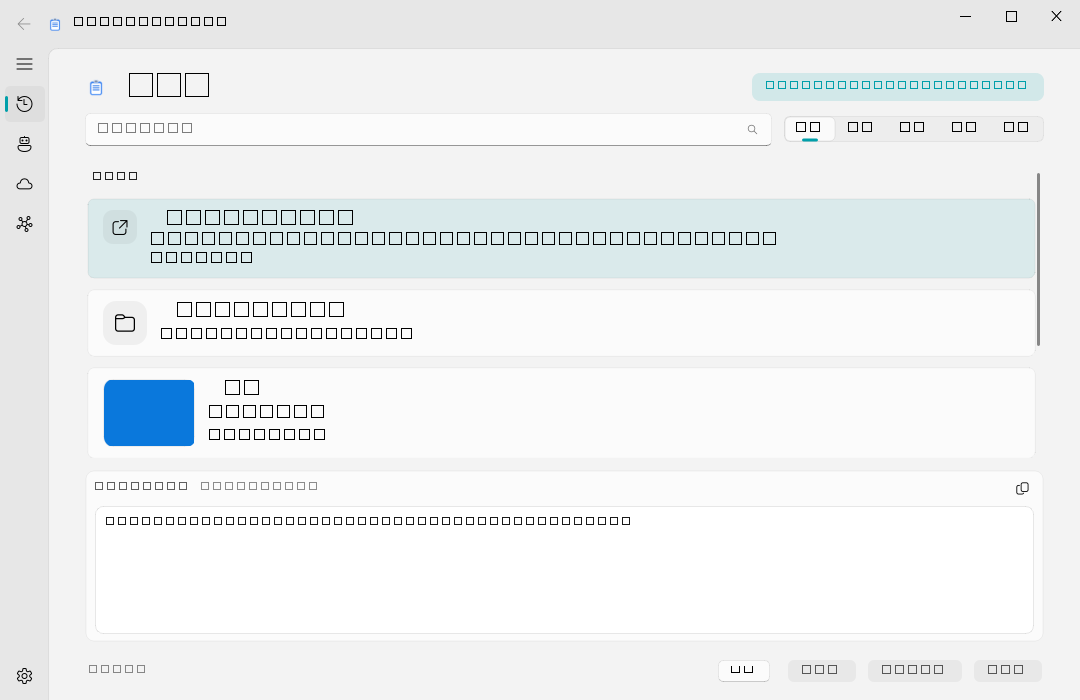
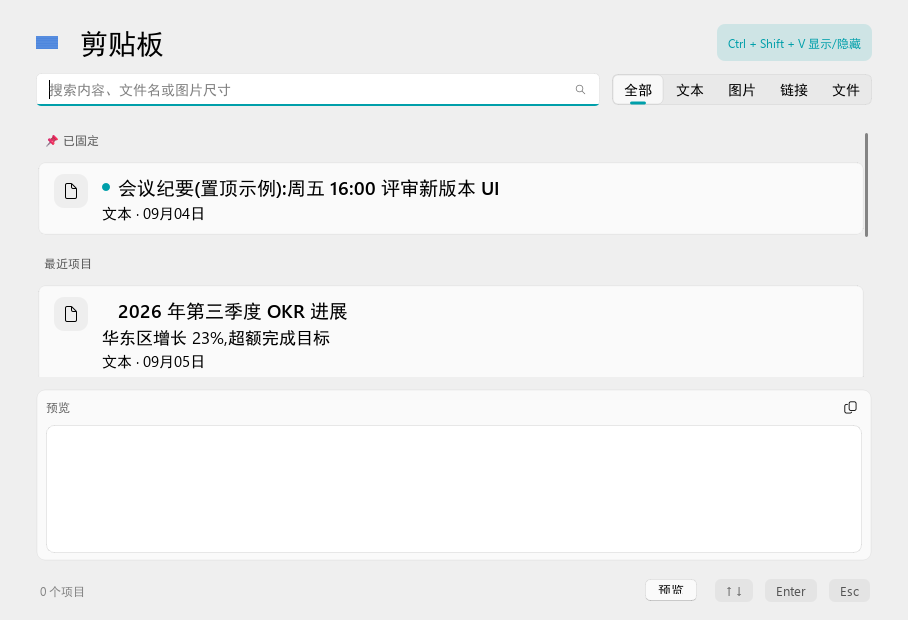
docs(readme): update features, shortcuts and file inventory

diff --git a/README.md b/README.md
@@ -13,10 +13,10 @@
 | 🖥 系统托盘常驻 | 后台运行,关闭按钮只隐藏,真正退出走托盘菜单 |
 | 🌗 深浅色主题 | qfluentwidgets 原生主题,默认跟随系统,设置页/config 可切换 |
 | 🏷 类型图标 | 卡片以图标 + 元信息行区分类型(文本/链接/文件/图片),悬停显示快捷操作 |
-| ⌨ 全局热键 | `Ctrl + Shift + V` 显示 / 隐藏 主窗口 |
+| ⌨ 全局热键 | `Ctrl + Shift + V` 显示 / 隐藏 主窗口;设置页可直接**按键录制**新热键,被占用即时提示并保留原组合 |
 | 📝 文本 + 图片 | 自动捕获复制的文字和截图,换行/中文完整保留 |
 | 📁 文件复制 | 资源管理器里复制的文件/文件夹也进历史,可粘回 |
-| 🔒 敏感隔离 | 密码/银行卡/身份证/API 密钥等自动识别,存入私密区不进普通历史 |
+| 🔒 敏感隔离 | 密码/银行卡/身份证/API 密钥等自动识别,存入私密区不进普通历史;私密区列表**默认遮罩**,点「显示明文」解锁、30 秒后或切走页面自动遮回;DPAPI 不可用时界面如实标注「未加密」而不是谎称已加密 |
 | 🖼 图片缩略图 | 历史卡片直接显示图片预览(后台线程解码,不卡列表) |
 | 📌 图钉画布 | 大画板式置顶画布(参考 BeeRef/PureRef):自由平移缩放,拖动 / 悬停滚轮缩放(光标锚) / 旋转 / 透明度 / 锁定 / 层级 / 框选多选 / 网格·对齐排列 / 内置编辑器标注(原地替换) / 从历史添加 / `Ctrl+Shift+P` 直钉剪贴板;布局与视图位置持久化,已钉图片独立存储,删历史不影响 |
 | 🎨 图片处理 | 裁剪 / 旋转 / 缩放 / 标注(方框、箭头、文字、马赛克)/ 压缩导出 |
@@ -32,10 +32,25 @@
 | 🧩 工作流(网页 AI 模式) | 不接 API 也能用:每步可以是「网页 AI」(提示词自动进剪贴板,可自动打开网页)、「人工确认」(粘贴回答/编辑把关)或「本地 AI」,固定流程逐步推进 |
 | 🔍 即时搜索 | 顶部搜索框输入关键词过滤(可搜"图片"或尺寸) |
 | 📌 置顶 | 常用内容固定在顶部,不被清空 |
-| ⚡ 自动粘贴 | 选中条目后直接粘贴到当前窗口(可关闭) |
+| ↩ 删除可撤销 | 单条删除与「清空历史」均弹撤销入口(6 秒内一键恢复,图片文件也一并保住);清空前有确认 |
+| ⏸ 暂停监听 | 托盘菜单/设置页一键暂停剪贴板记录(临时隐私模式:复制密码、填表期间不入史;重启自动恢复) |
+| 🚫 按应用排除 | 名单内程序(如密码管理器、验证器)的复制**不进入历史**;设置页可从「最近复制过的来源应用」下拉一键排除;条目卡片元信息行显示来源应用进程名 |
+| 🧹 自动清理 | 按天数(7/30/90 天可选)与图片缓存容量上限(200MB~2GB)自动裁剪,置顶条目一律豁免;启动与每 6 小时检查,设置页改完立即执行 |
+| 🔐 历史加密 | history.json 可选 Windows DPAPI 加密(绑定当前用户,复制文件到别的电脑读不出);关闭即明文便于备份迁移,两种格式互读互转 |
+| 📝 富文本保留 | 浏览器/Office 复制的 HTML Format / RTF 随条目保存,粘贴回 Word/Excel/浏览器时**保留加粗、表格等排版**,不再退化成纯文本 |
+| 🔎 来源/时间筛选 | 搜索行右侧两个下拉:按来源应用(自动列出复制过的程序)、按时间(今天/24 小时/7 天/30 天),与分类、关键词**叠加生效** |
+| 🧹 批量删除 | `Shift+点击` 从当前选中到该卡整段多选,`Delete` 一键删除(或右键「删除所选 N 条」),**整批可撤销** |
+| 📤 导入导出 | 设置页「备份与迁移」:全部条目导出 JSON(可选 base64 内嵌图片),导入自动去重、图片落盘重建、原时间与置顶还原 |
+| ❓ 快捷键总览 | 设置页「快捷键与操作」或主窗口按 `F1`:全局热键(动态)/列表/查看器/图片编辑按键一览 |
+| 👋 首次引导 | 首次启动欢迎卡(核心操作四步),看过一次不再打扰 |
+| 🔄 更新检查 | 设置页「关于与更新」一键检查 GitHub Release(启动期每 7 天静默查一次);发现新版弹提示 + 一键打开发布页;`关于` 对话框带版本号 |
+| 🧙 安装向导 | `安装.bat` → 用户级安装(免管理员):复制到 `%LOCALAPPDATA%\Programs`、创建开始菜单/桌面快捷方式、注册「应用和功能」卸载项;卸载保留用户数据 |
+| ♿ 无障碍基础 | 搜索/筛选/卡片/复制按钮等关键控件带屏幕阅读器名称;主题选项显示「跟随系统/浅色/深色」而非英文枚举 |
+| ⚡ 自动粘贴 | 默认**关闭**:选中条目只写入剪贴板,由你手动 `Ctrl+V`(避免模拟按键把内容打进意料之外的窗口);可在设置页开启「选中后自动向当前窗口发送 Ctrl+V」 |
 | 💾 持久化 | 重启电脑后历史仍在(原子写入 + 3 份滚动备份,损坏自动回退) |
 | 📜 崩溃日志 | 异常自动写入 app.log,出问题便于排查 |
 | 🚀 开机自启 | 托盘菜单可一键开启 |
+| 📦 一键打包 | `打包构建.bat` 产出独立 EXE(`dist\WinClipboard\WinClipboard.exe`,onedir),普通电脑无需安装 Python;依赖见 `requirements.txt` |
 
 ## 🧩 工作流(网页 AI / 人工确认 / 本地 API)
 
@@ -74,9 +89,9 @@
 **唯一入口** `winclipboard_qt.py`(需 PySide6 + PySide6-Fluent-Widgets;缺失时启动器
 会提示安装命令,不再有 tkinter 回退版)。
 
-**Python 解释器解析顺序**(换环境/换机器时无需改启动器):
+**Python 解释器解析顺序**(换环境/换机器时无需改启动器,无任何硬编码机器路径):
 1. `python.txt`(与启动器同目录,内容一行:pythonw.exe 完整路径)——显式指定,优先级最高
-2. hermes venv(本机已知可用)
+2. 项目自带 `.venv\Scripts\pythonw.exe`(推荐,见「依赖」节)
 3. PATH 上的 `pythonw.exe`
 
 启动后:
@@ -94,6 +109,9 @@
 | `Enter` | 复制选中条目并粘贴到当前窗口 |
 | 双击条目 | 链接:默认浏览器打开;文件:系统默认程序打开(同资源管理器双击);文本/图片:独立窗口查看(代码高亮 / 缩放平移) |
 | `Ctrl + 点击` 条目 | 选定两条做**内容对比**:第一条设为基准(右键也可「选为对比基准」),再 Ctrl+点击另一条开对比窗口(文本 unified diff / JSON 语义 diff) |
+| `Shift + 点击` 条目 | 从当前选中到该卡**整段多选**;`Delete` 一键批量删除(右键也有「删除所选 N 条」),整批可撤销 |
+| `Delete` | 删除选中条目(段选激活时删整段);均弹撤销入口 |
+| `F1` | 快捷键与操作总览 |
 | 双击查看器「字段/值」行 | URL / JWT 视图里双击字段行即复制该值(右键同) |
 | 输入文字 | 实时搜索过滤 |
 | 右键条目 | 复制 / 置顶 / 删除 / 在独立窗口查看 / 工作流;文件条目另有 打开文件 / 在资源管理器中显示 |
@@ -106,7 +124,7 @@
 | 右键图片条目 → 图片处理 | 打开图片编辑器(裁剪/标注/压缩等;装了 ShareX 优先用 ShareX) |
 | `Esc` | 隐藏主窗口(任何页面都生效) |
 | 托盘左键 | 切换主窗口 |
-| 托盘右键 | 菜单(显示/清空/私密内容/开机自启/关于/退出) |
+| 托盘右键 | 菜单(显示/暂停监听/按应用排除见设置页/清空/私密内容/开机自启/关于/退出) |
 
 ## 📁 文件说明
 
@@ -118,13 +136,21 @@ WinClipboard\
 ├── pinboard\                 图钉画布子包(manager 门面 / window·view·items 交互 /
 │                             model·storage 数据与资产 / layout 排列算法 / loader 后台解码)
 ├── python.txt                指定 Python 解释器(一行 pythonw.exe 完整路径;可选)
-├── 启动剪贴板.vbs            无窗口启动器(自动选择版本;桌面快捷方式指向它)
-├── 启动剪贴板.bat            带控制台启动器(调试用,同样自动选择版本)
-├── _core_test.py             核心逻辑单元测试(91 项,无需 GUI;含内容识别管线/Diff)
-├── _ai_test.py               AI 工作流端到端测试(36 项;本地假 AI 服务器,无外部依赖)
+├── requirements.txt          源码运行依赖清单(pip install -r requirements.txt)
+├── winclipboard.spec         PyInstaller 打包配置(onedir,EXE 免装 Python)
+├── 打包构建.bat              一键打包 → dist\WinClipboard\WinClipboard.exe
+├── installer.ps1             用户级安装器(复制/快捷方式/卸载注册;免管理员)
+├── 安装.bat                  安装器入口(自动带上当前版本号)
+├── 启动剪贴板.vbs            无窗口启动器(python.txt → .venv → PATH,无硬编码路径)
+├── 启动剪贴板.bat            带控制台启动器(调试用,同样自动选择解释器)
+├── _core_test.py             核心逻辑单元测试(137 项,无需 GUI;含内容识别管线/Diff/撤销栈/热键标签/按应用排除/自动清理/历史加密/富文本/筛选/导入导出/版本比较)
+├── _ai_test.py               AI 工作流端到端测试(38 项;本地假 AI 服务器,无外部依赖)
 ├── _pinboard_test.py         图钉画布单元+集成自检(72 项;序列化/资产/布局/持久化/迁移/LRU)
-├── _integration_test.py      Qt 前端集成自检(161 项;真实 app/核心/面板,离屏渲染,
-│                             含 URL/JWT/Base64 Inspector、Diff、动作注册表、卡片徽章)
+├── _integration_test.py      Qt 前端集成自检(211 项;真实 app/核心/面板,离屏渲染,
+│                             含 URL/JWT/Base64 Inspector、Diff、动作注册表、卡片徽章、
+│                             删除撤销、私密遮罩、热键录制、暂停监听、按应用排除、
+│                             存储清理、富文本剪贴板往返、来源/时间筛选、批量删除、
+│                             导入导出、更新检查)
 ├── _ui_preview.py            UI 离屏渲染预览(python _ui_preview.py [light|dark],开发用)
 ├── _inspector_preview.py     Inspector 视图离屏渲染(URL/JWT/Base64 截图,开发用)
 ├── _gui_test.py              热键弹出实测(对已启动的进程注入 Ctrl+Shift+V,传入其 PID)
@@ -148,8 +174,12 @@ WinClipboard\
 {
   "hotkey_mod": 6,        // 修饰键位掩码: Ctrl=2, Shift=4, Alt=1, Win=8(6 = Ctrl+Shift)
   "hotkey_key": 86,       // 主键虚拟键码: 86 = V
-  "auto_paste": true,     // 选中后是否自动模拟 Ctrl+V 粘贴
+  "auto_paste": false,    // 选中条目回车后是否自动向当前窗口发送 Ctrl+V(默认关,只写剪贴板)
   "sensitive_guard": true,// 敏感内容自动识别并隔离(false 则关闭)
+  "exclude_apps": [],     // 按应用排除:名单内程序的复制不入史(exe 名,设置页可视化维护)
+  "cleanup_days": 0,      // 自动清理:删除 N 天前的未置顶条目(0 = 关闭)
+  "disk_cap_mb": 0,       // 图片缓存上限 MB,超限从最旧删起(0 = 关闭)
+  "encrypt_history": false, // history.json 用 DPAPI 加密(false = 明文,便于备份迁移)
   "max_items": 100,       // 最多保留多少条(置顶条目不计入)
   "theme": "auto",        // 界面主题: auto(跟随系统)/ light / dark,设置页切换即时生效
   "theme_color": "",      // 主题色(强调色)十六进制覆盖,如 "#0066CC";空串 = 库默认
@@ -161,8 +191,8 @@ WinClipboard\
 
 缺失的键会自动用默认值补齐,所以手写的 `config.json` 只写要改的那几项也能用。
 写入采用原子替换 + 3 份滚动备份(`.bak1`~`.bak3`),文件损坏时启动会自动回退到最近
-可用的一份。想换热键(比如 `Alt+V`):把 `hotkey_mod` 改成 `1`,`hotkey_key` 改成 `86`,
-保存后重启程序。
+可用的一份。想换热键:**设置页 → 全局热键 → 「更改」直接按键录制**(立即生效,
+被占用会即时提示);也可手改 `hotkey_mod` / `hotkey_key` 后重启。
 
 ## 🧰 依赖
 
@@ -173,23 +203,28 @@ WinClipboard\
 - `Pillow` —— 图标与图片处理
 - `Pygments`(可选) —— 语法高亮;未安装时预览/查看器自动退化为纯文本
 
-首次使用先建独立环境,再一条命令装齐:
+首次使用先建独立环境,再一条命令装齐(依赖清单见 `requirements.txt`):
 
 ```bat
 py -3 -m venv .venv
-.venv\Scripts\python.exe -m pip install PySide6 PySide6-Fluent-Widgets pywin32 Pillow Pygments
+.venv\Scripts\python.exe -m pip install -r requirements.txt Pygments
 ```
 
-> ⚠ **不要用 Hermes 的 venv 跑本程序。** 程序常驻托盘、进程一直活着,会锁住
-> `hermes-agent\venv\Scripts\python.exe`,导致 Hermes 自更新时报
-> 「关闭其他进程以更新 Hermes」。启动器已把自带的 `.venv` 作为首选解释器,
-> Hermes venv 只作最后兜底。
+**不想装 Python?** 两条路任选:
+1. **安装版**:`打包构建.bat` 生成 EXE → `安装.bat` 用户级安装(开始菜单/桌面快捷方式、
+   「应用和功能」可卸载,免管理员;卸载保留历史与配置);
+2. **便携版**:直接运行 `dist\WinClipboard\WinClipboard.exe`(onedir 结构,整个文件夹拷走即用)。
+
+> ⚠ **不要用其他程序的 venv 跑本程序。** 程序常驻托盘、进程一直活着,会锁住
+> 那个解释器,妨碍其所属工具(如 Hermes)自更新。启动器只认
+> `python.txt` → 自带 `.venv` → PATH,不会再去捡别的程序的 venv。
 
 ## ❓ 常见问题
 
 **Q: 按了 `Ctrl+Shift+V` 没反应?**
-A: 该热键可能被其他软件占用(如某些浏览器)。编辑 `config.json` 换个组合,重启即可。
-   另外注意程序必须在运行(看托盘有没有图标)。
+A: 该热键可能被其他软件占用(如某些浏览器)。到**设置页 → 全局热键 → 「更改」**
+   直接按键录一个新组合(立即生效、冲突即时提示)。另外注意程序必须在运行
+   (看托盘有没有图标)。
 
 **Q: 怎么彻底退出?**
 A: 右键托盘图标 → 退出。直接关闭主窗口只是隐藏,程序仍在后台。
@@ -200,11 +235,13 @@ A: 说明本程序正跑在 Hermes 的 venv 上,常驻进程把 `hermes-agent\ve
    不再影响 Hermes 更新。临时救急也可以直接结束那个 pythonw.exe,再重开本程序。
 
 **Q: 自动粘贴不生效?**
-A: 少数程序(如部分游戏、远程桌面)不接受模拟按键。关闭 `auto_paste` 后,
-   选中条目会只复制到剪贴板,你再自己 `Ctrl+V`。
+A: 自动粘贴默认是**关闭**的(更安全:选中条目只写剪贴板)。想要"选中即贴",
+   设置页打开「自动粘贴」开关;若个别程序(游戏、远程桌面)仍不接收模拟按键,
+   属于程序限制,关掉开关手动 `Ctrl+V` 即可。
 
 **Q: 想清除所有历史?**
-A: 右键托盘 → 清空历史(置顶条目会保留)。或直接删除 `%APPDATA%\WinClipboard\history.json`。
+A: 右键托盘 → 清空历史(先确认,置顶条目保留,清空后 6 秒内可撤销)。
+   或直接删除 `%APPDATA%\WinClipboard\history.json`。
 
 **Q: 怎么编辑复制的图片?**
 A: 双击图片条目打开**图片查看器**,点「✏ 编辑标注」**就在这个窗口里编辑**
